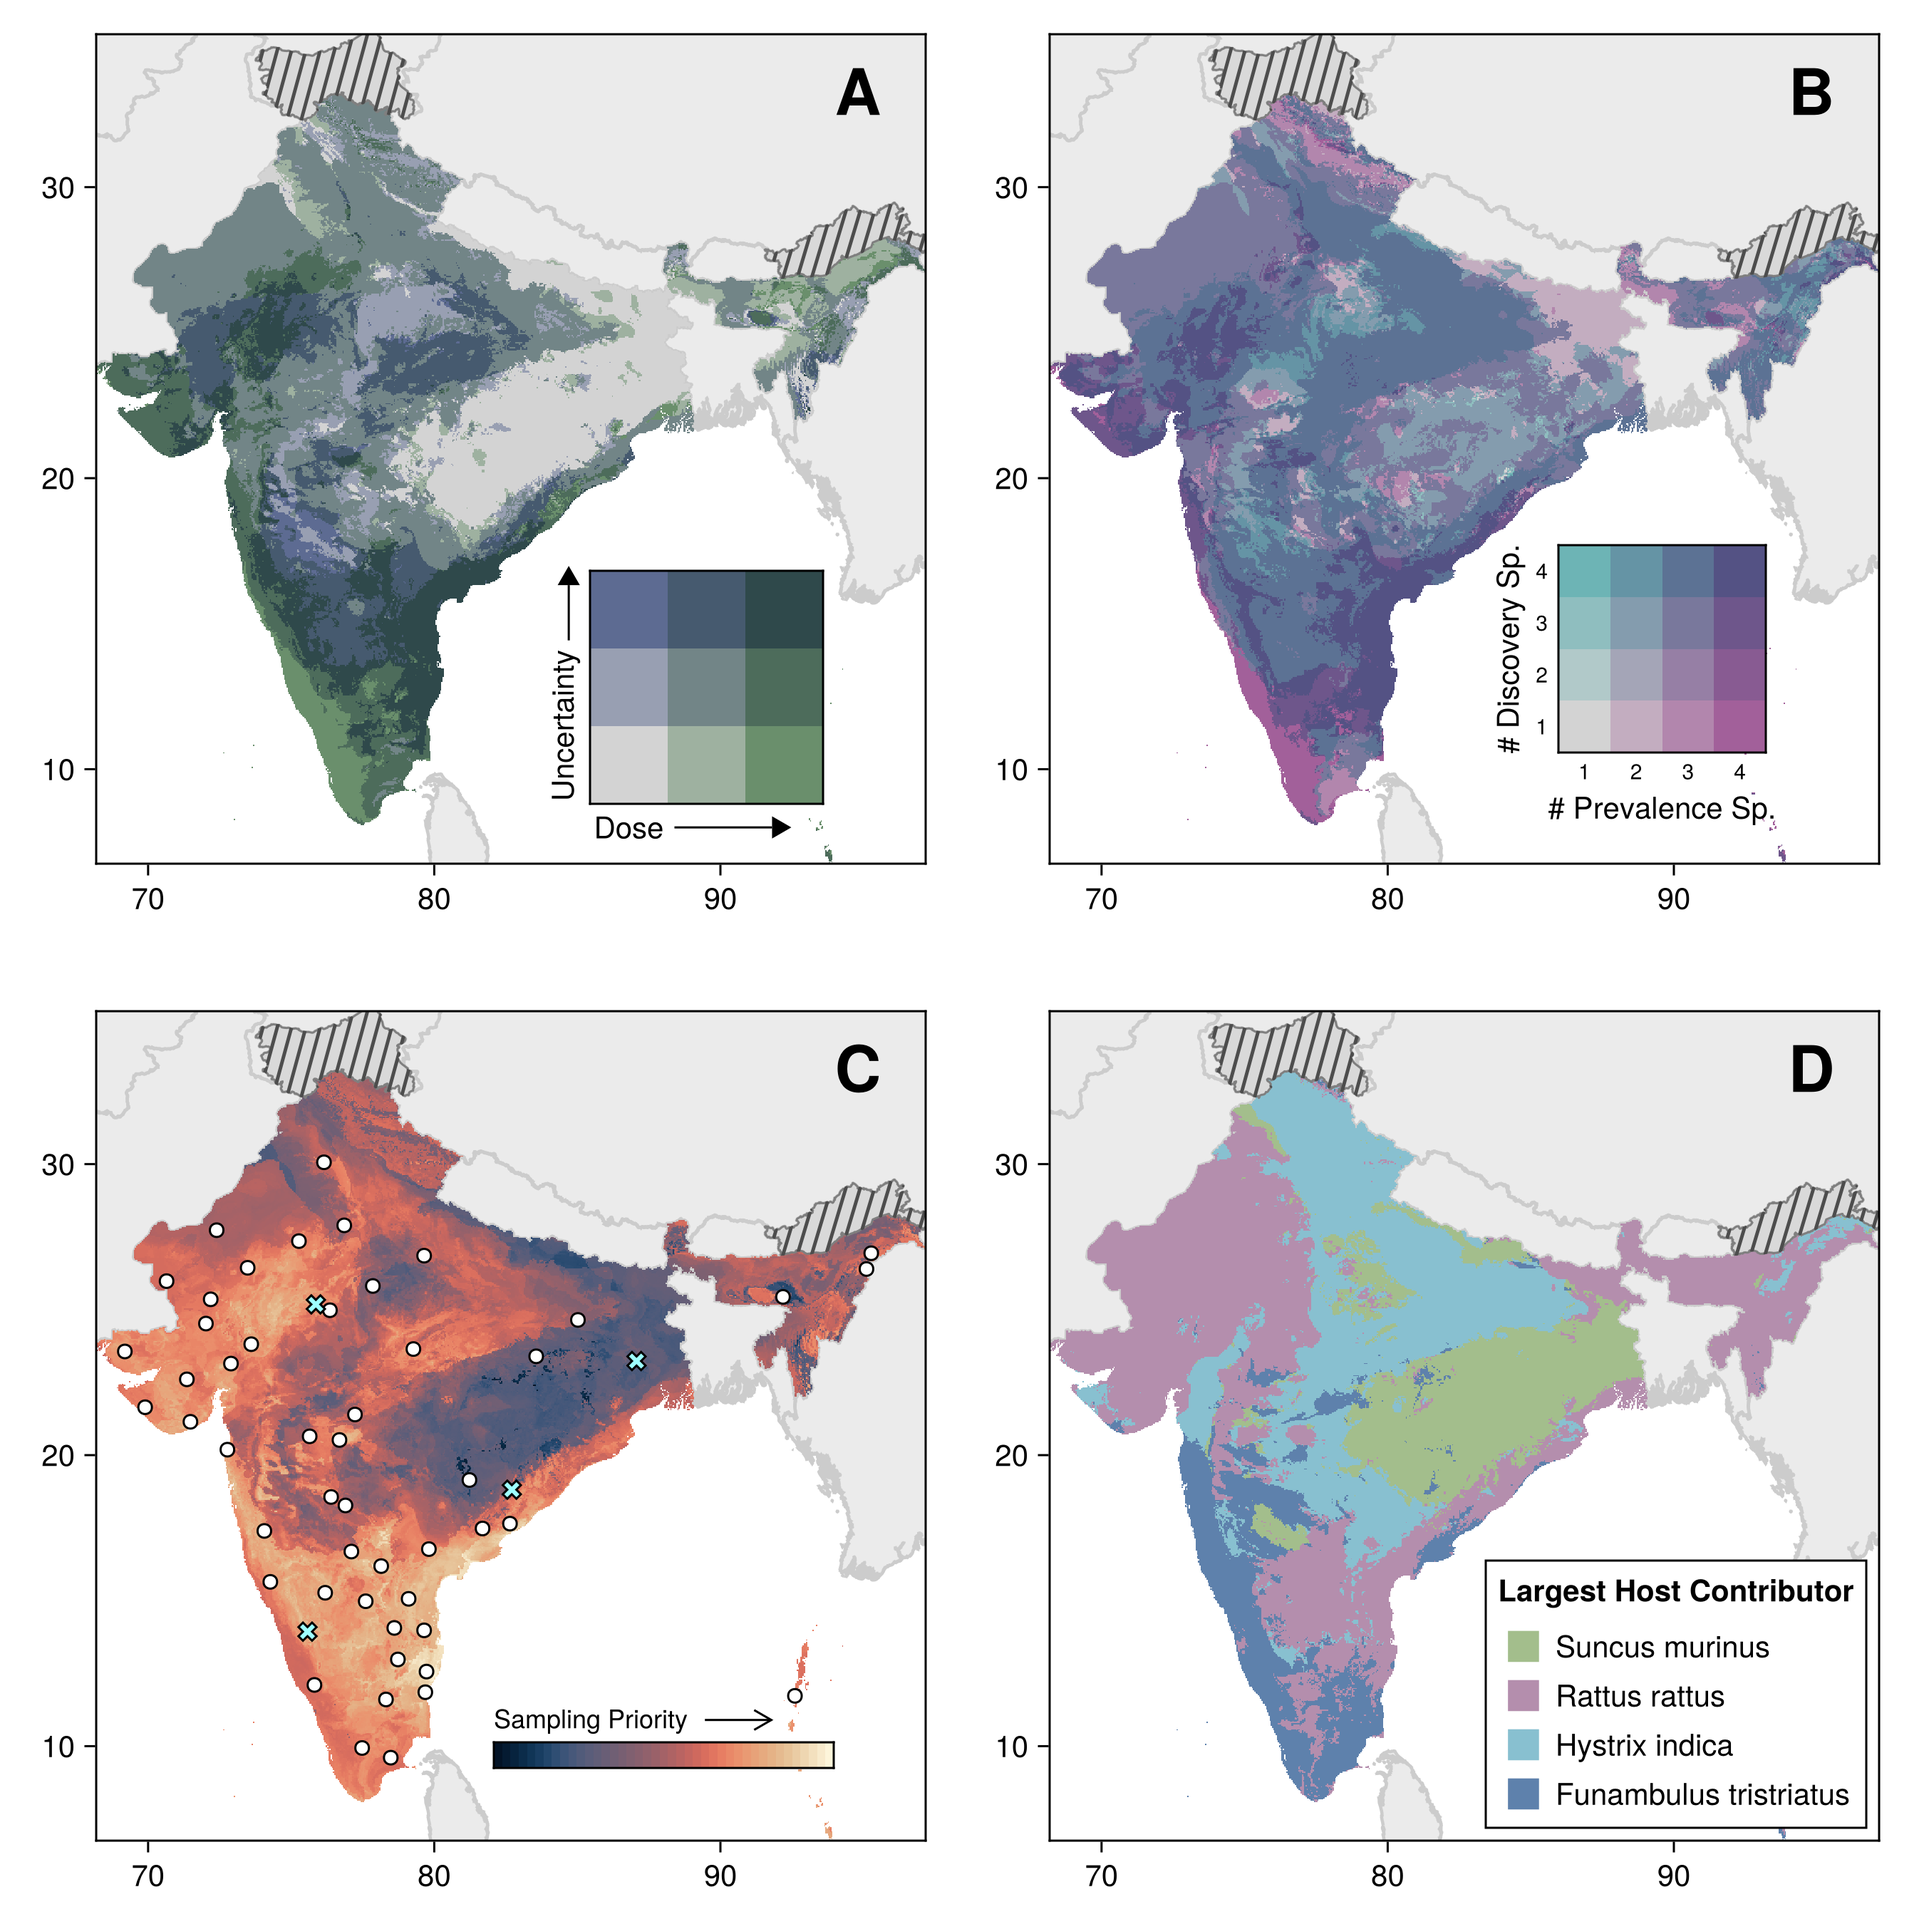
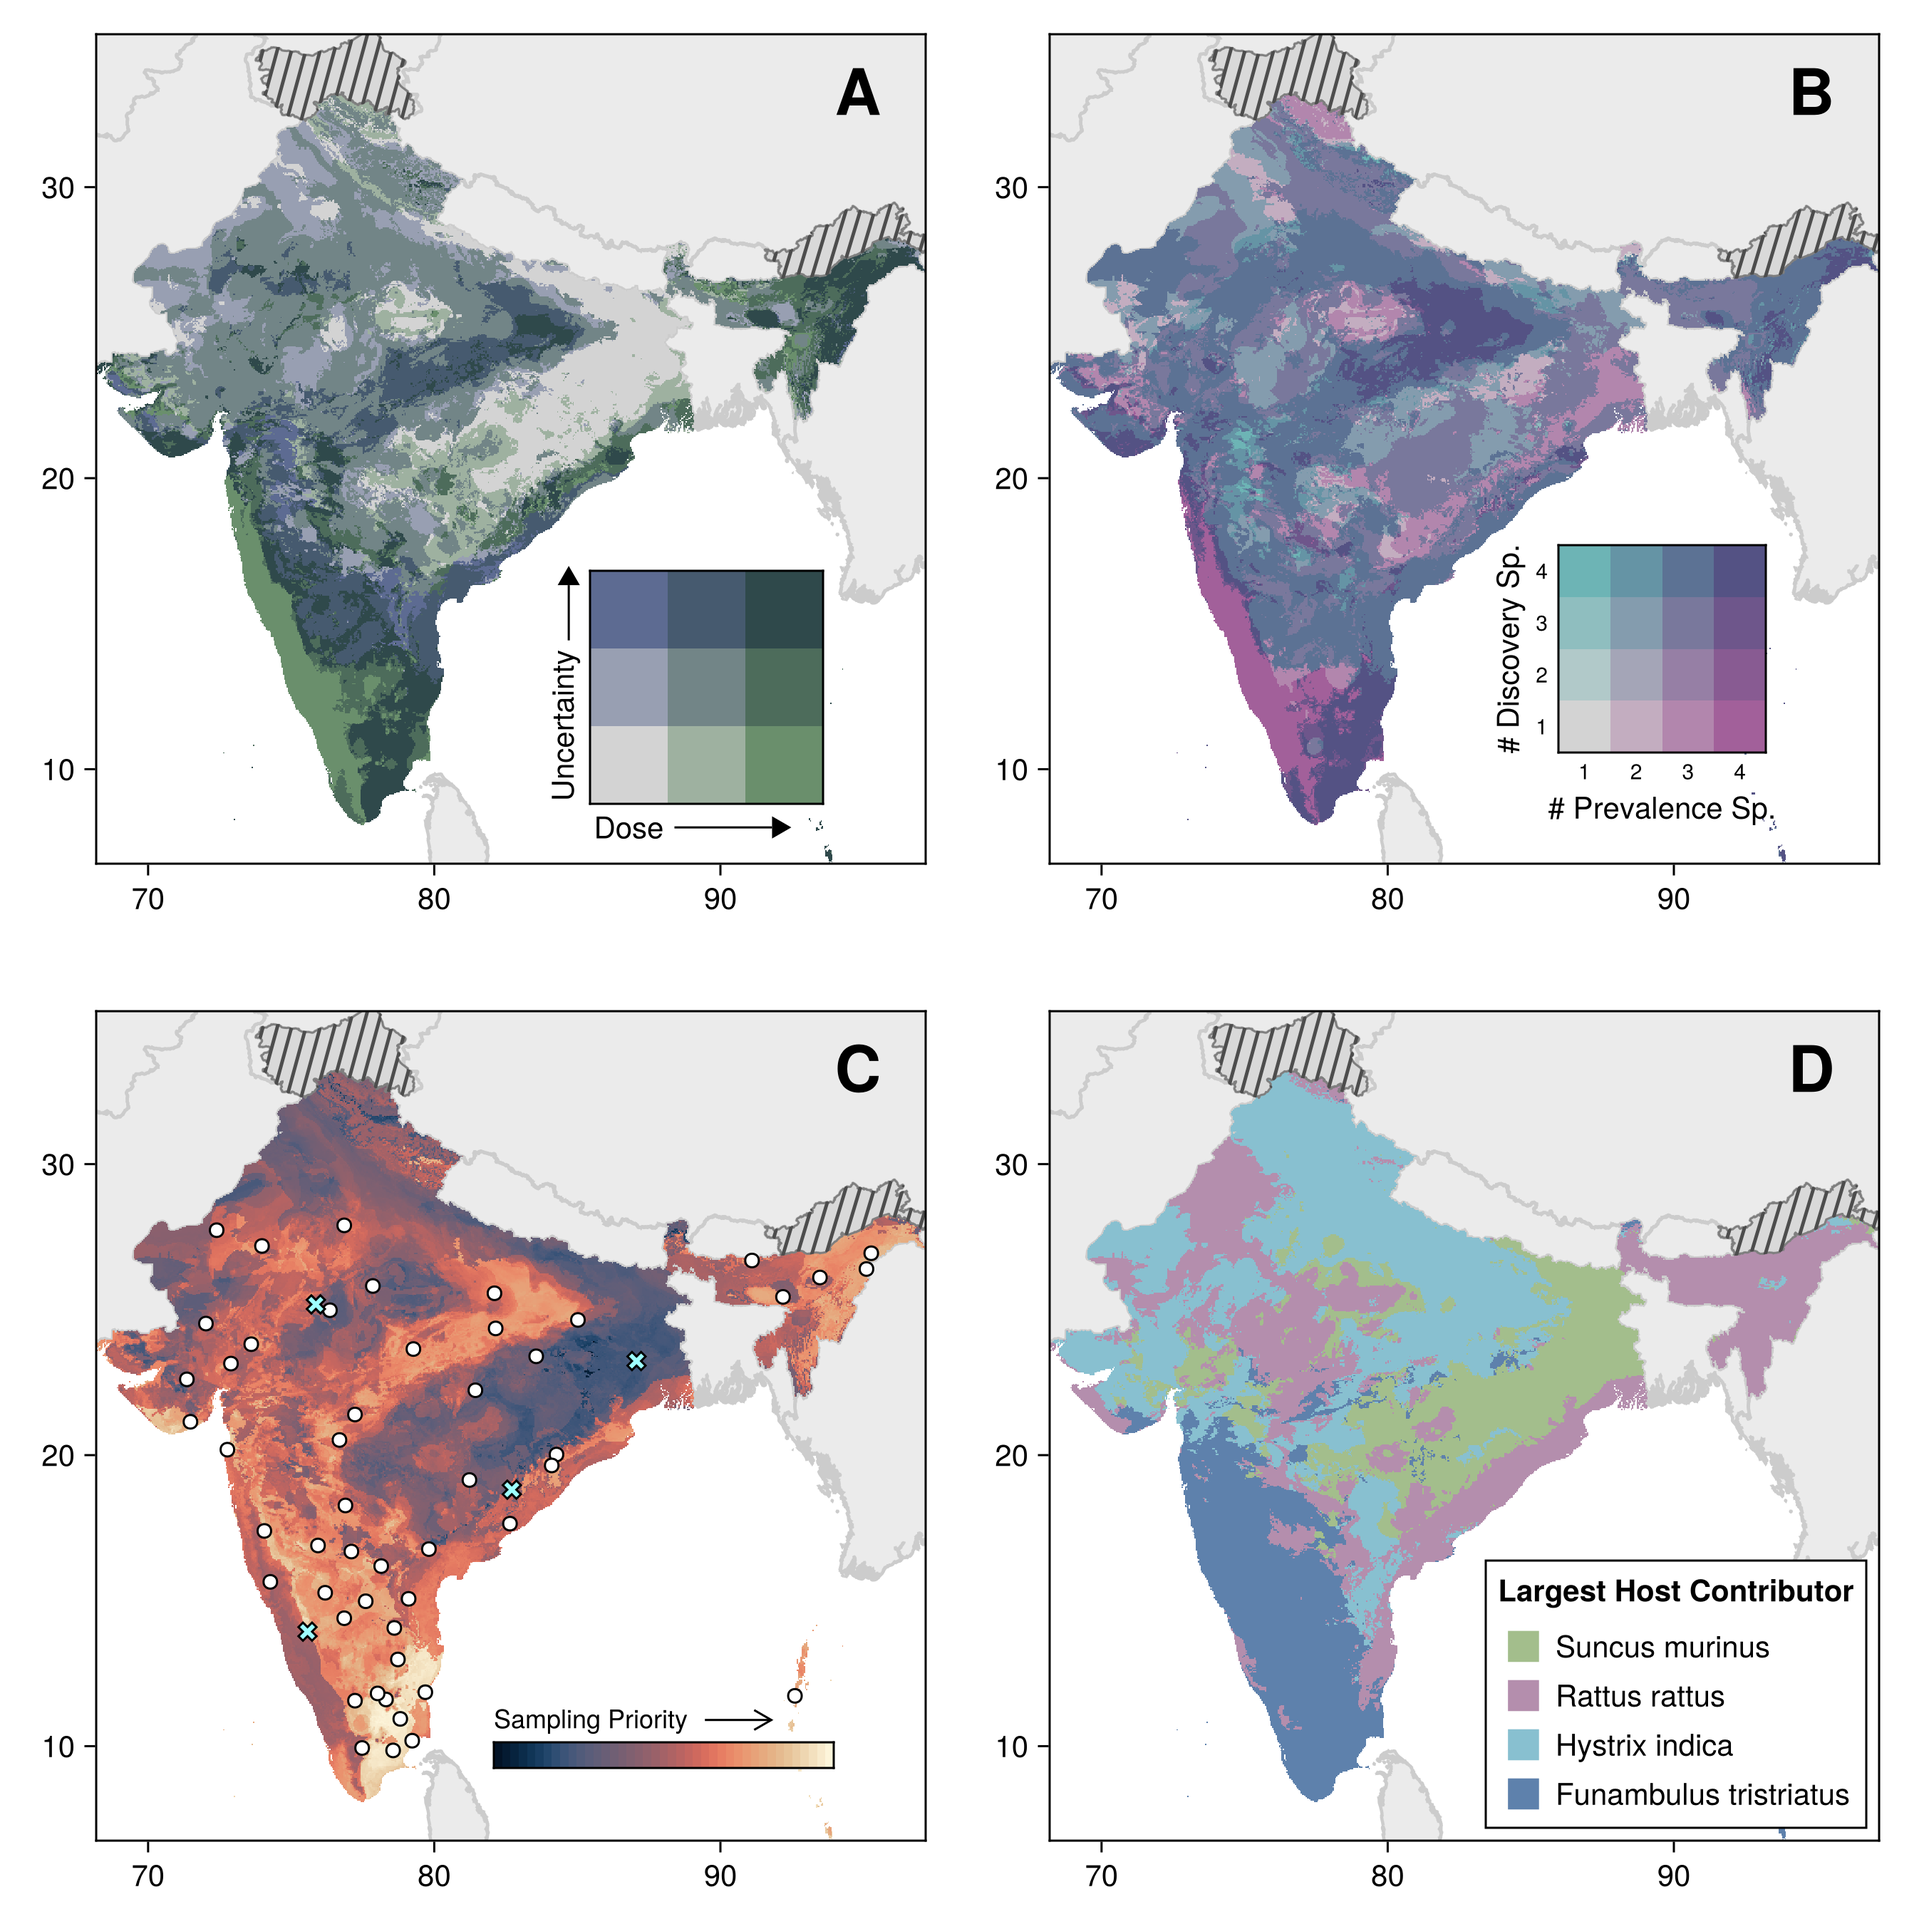
up

diff --git a/README.md b/README.md
@@ -6,6 +6,8 @@ This repository contains code associated with the manuscript _A protocol for bio
 
 This analysis was written in Julia v1.12. Instructions for installing Julia can be found [here](https://julialang.org/downloads/).  
 
+We recommend using v1.12 as future versions may introduce breaking changes to the package.
+
 The required packages can be installed by running Julia from the root of the repository, and running
 
 ```julia
